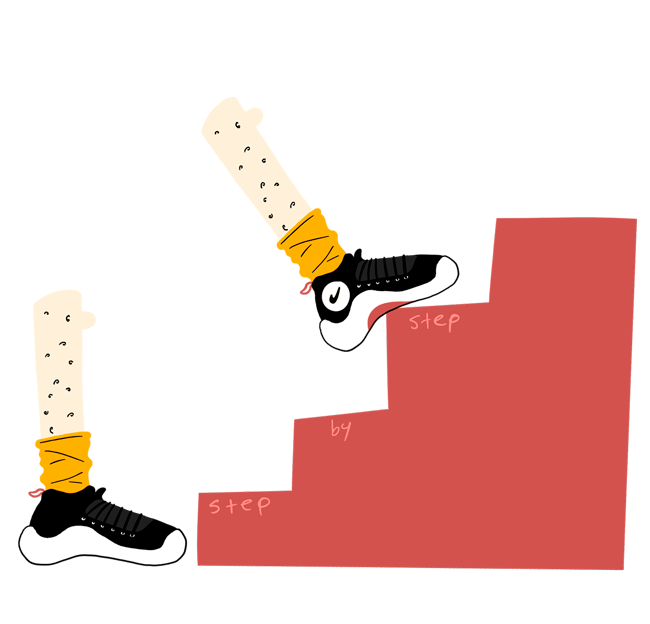
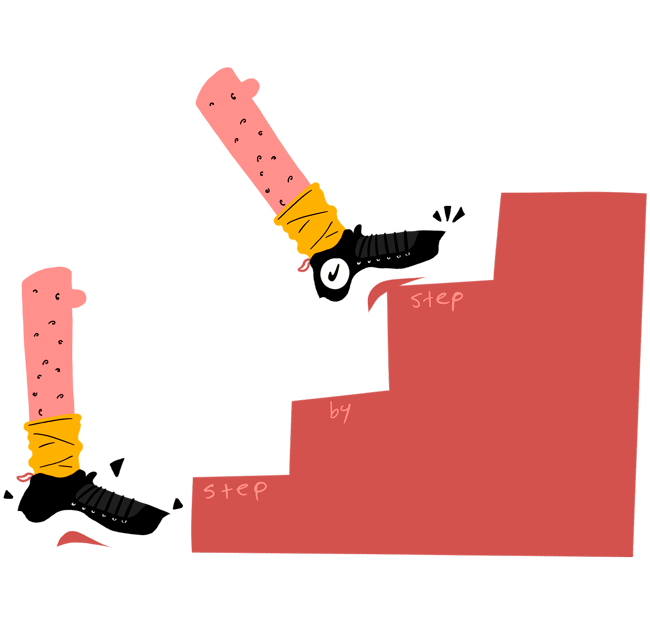
ilustraciones a color y actualizacion de url youtube

Changed region(s): [[0.0, 0.0913, 1.0, 0.9135], [0.5846, 0.5481, 0.6154, 0.5785], [0.5231, 0.5481, 0.5538, 0.5785]]

diff --git a/pages/podcast.html b/pages/podcast.html
@@ -84,7 +84,7 @@
                         <!-- PORTADA PODCAST -->
                         <div class="col-lg-5 col-sm-12 alto-card-img">
                              <iframe class="video_1_podcast"
-                            src="https://www.youtube.com/embed/nVThjEQ4WOA?si=rTw91bjnY8JBshTj">
+                            src="https://www.youtube.com/embed/Y1esys3Ogio?si=3wZ2JJVdDWx2UsRg">
                             </iframe> 
                             </div>
                         
@@ -96,7 +96,7 @@
                                 <p class="parrafo">te contaré un poco de cómo ha sido mi historia en el extranjero y lo que he logrado hasta ahora con el idioma. los proximos capítulos serán en inglés y con nativos.</p>
                                 <!-- boton -->
                                 <div>
-                                    <a class="boton enlace" href="https://www.youtube.com/watch?v=nVThjEQ4WOA&ab_channel=javi-D">PLAY</a>
+                                    <a class="boton enlace" href="https://youtu.be/Y1esys3Ogio?si=rtrVyLZcxSvmB3r0">PLAY</a>
                                 </div>
                             
                             </div>

diff --git a/css/estilos.css b/css/estilos.css
@@ -554,8 +554,8 @@ span {
     background-size: 180%;
     background-repeat: no-repeat;
     background-position: center;
-    background-position-y: -50px;
-    background-position-x: -380px;
+    background-position-y: -7rem;
+    background-position-x: -12.5rem;
   }
   .max-width_podcast {
     max-width: 100vw;

diff --git a/scss/_podcast.scss b/scss/_podcast.scss
@@ -93,8 +93,8 @@
     background-size: 180%;
     background-repeat: no-repeat;
     background-position: center;
-    background-position-y: -50px;
-    background-position-x: -380px;
+    background-position-y: -7rem;
+    background-position-x: -12.5rem;
    }
 
    
